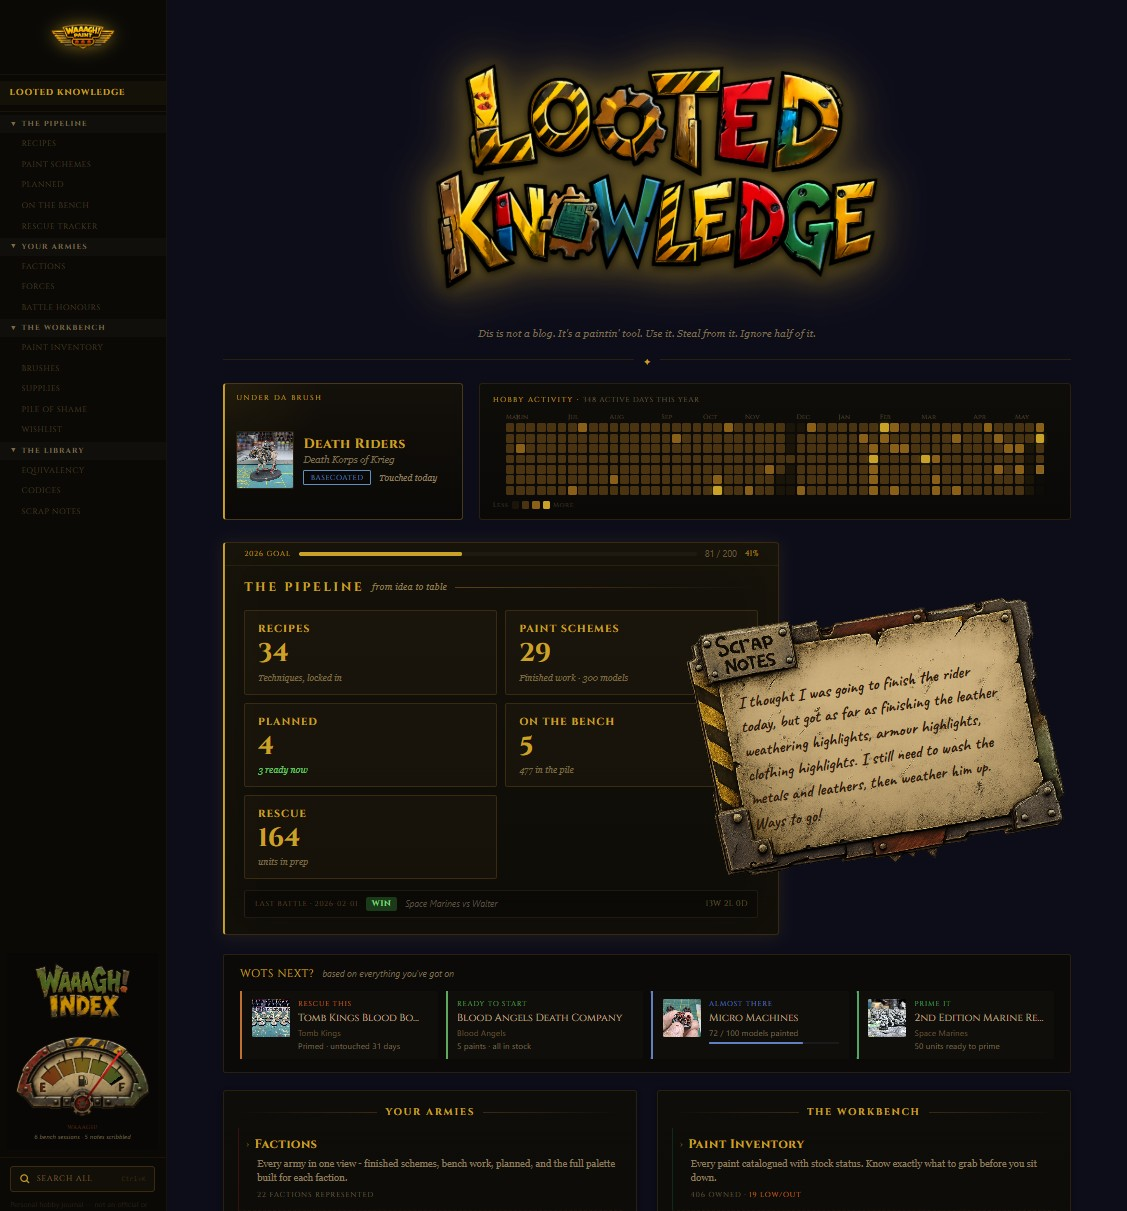
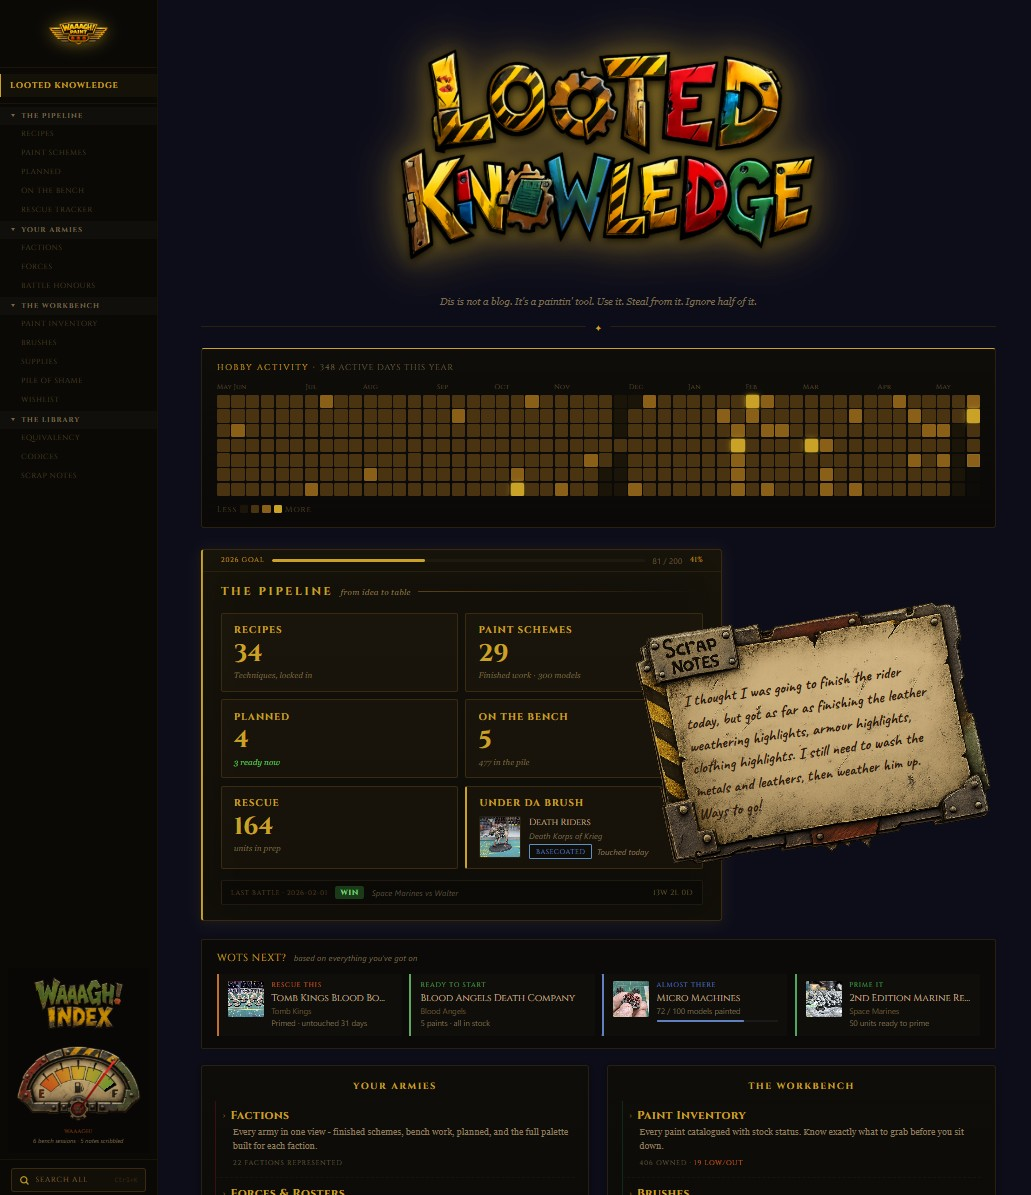
heatmap more in your face - better organised

diff --git a/styles.css b/styles.css
@@ -2903,106 +2903,6 @@
       margin: 0 0 28px;
     }
 
-    .hero-bench {
-      display: flex;
-      flex-direction: column;
-      width: 300px;
-      flex-shrink: 0;
-      background:
-        radial-gradient(ellipse 70% 100% at 0% 0%, rgba(201, 162, 39, .08) 0%, transparent 60%),
-        linear-gradient(180deg, #14100a 0%, #0a0907 100%);
-      border: 1px solid #4a3a18;
-      border-left: 3px solid var(--gold);
-      border-radius: 4px;
-      padding: 12px 14px;
-      cursor: pointer;
-      text-decoration: none;
-      transition: border-color .15s, box-shadow .15s, transform .15s;
-    }
-
-    .hero-bench:hover {
-      border-color: #8a6a18;
-      box-shadow: 0 2px 18px rgba(201, 162, 39, .18);
-      transform: translateY(-1px);
-    }
-
-    .hero-bench-label {
-      font-family: var(--font-heading);
-      font-size: 9px;
-      letter-spacing: .22em;
-      text-transform: uppercase;
-      color: var(--gold);
-      margin-bottom: 10px;
-    }
-
-    .hero-bench-main {
-      display: flex;
-      gap: 12px;
-      align-items: center;
-      flex: 1;
-    }
-
-    .hero-bench-img {
-      width: 72px;
-      height: 72px;
-      border-radius: 3px;
-      background-size: cover;
-      background-position: center;
-      background-color: #0a0806;
-      border: 1px solid var(--border);
-      flex-shrink: 0;
-    }
-
-    .hero-bench-img-empty {
-      display: flex;
-      align-items: center;
-      justify-content: center;
-      font-family: var(--font-heading);
-      font-size: 8px;
-      letter-spacing: .12em;
-      color: var(--bg-mid);
-      text-align: center;
-      line-height: 1.4;
-    }
-
-    .hero-bench-info {
-      flex: 1;
-      min-width: 0;
-    }
-
-    .hero-bench-name {
-      font-family: var(--font-heading);
-      font-weight: 700;
-      font-size: 1.05rem;
-      color: var(--gold);
-      letter-spacing: .04em;
-      margin-bottom: 2px;
-      white-space: nowrap;
-      overflow: hidden;
-      text-overflow: ellipsis;
-    }
-
-    .hero-bench-faction {
-      font-family: var(--font-body);
-      font-style: italic;
-      font-size: 12px;
-      color: #7a6a4a;
-      margin-bottom: 6px;
-    }
-
-    .hero-bench-meta {
-      display: flex;
-      gap: 10px;
-      align-items: center;
-      flex-wrap: wrap;
-    }
-
-    .hero-bench-touched {
-      font-family: var(--font-body);
-      font-size: 11px;
-      color: #8a7a5a;
-      font-style: italic;
-    }
 
     .hero-wrap {
       position: relative;
@@ -3014,17 +2914,18 @@
       min-width: 0;
       background: linear-gradient(180deg, var(--bg-base) 0%, #0a0907 100%);
       border: 1px solid var(--border);
+      border-top: 2px solid var(--gold);
       border-radius: 4px;
-      padding: 14px 16px 12px;
+      padding: 18px 20px 16px;
     }
 
     .hm-header {
       font-family: var(--font-heading);
-      font-size: 9px;
+      font-size: 11px;
       letter-spacing: .2em;
       text-transform: uppercase;
       color: var(--gold);
-      margin-bottom: 10px;
+      margin-bottom: 12px;
     }
 
     .hm-count {
@@ -3032,26 +2933,20 @@
       letter-spacing: .1em;
     }
 
-    .hm-scroll {
-      overflow-x: auto;
-    }
+    .hm-scroll { overflow-x: hidden; }
 
-    .hm-inner {
-      width: fit-content;
-      margin: 0 auto;
-    }
+    .hm-inner { width: 100%; }
 
     .hm-months {
-      display: flex;
+      display: grid;
+      grid-template-columns: repeat(52, 1fr);
       gap: 2px;
       margin-bottom: 3px;
     }
 
     .hm-months span {
-      width: 11px;
-      flex-shrink: 0;
       font-family: var(--font-heading);
-      font-size: 8px;
+      font-size: 9px;
       letter-spacing: .04em;
       color: #6a5a3a;
       white-space: nowrap;
@@ -3059,7 +2954,8 @@
     }
 
     .hm-grid {
-      display: flex;
+      display: grid;
+      grid-template-columns: repeat(52, 1fr);
       gap: 2px;
     }
 
@@ -3067,19 +2963,18 @@
       display: flex;
       flex-direction: column;
       gap: 2px;
-      flex-shrink: 0;
     }
 
     .hm-day {
-      width: 11px;
-      height: 11px;
+      aspect-ratio: 1;
+      width: 100%;
       border-radius: 2px;
     }
 
     .hm-lv0 { background: #1a1508; }
     .hm-lv1 { background: #4a3310; }
     .hm-lv2 { background: #8a6018; }
-    .hm-lv3 { background: var(--gold); box-shadow: 0 0 5px rgba(201,162,39,.35); }
+    .hm-lv3 { background: var(--gold); box-shadow: 0 0 8px rgba(201,162,39,.6), 0 0 3px rgba(201,162,39,.9); }
     .hm-future { background: #0e0c08; }
     .hm-today  { outline: 1px solid #8a6a28; outline-offset: -1px; }
 
@@ -3087,9 +2982,9 @@
       display: flex;
       align-items: center;
       gap: 4px;
-      margin-top: 8px;
+      margin-top: 10px;
       font-family: var(--font-heading);
-      font-size: 8px;
+      font-size: 11px;
       letter-spacing: .1em;
       color: #5a4a2a;
     }
@@ -3098,8 +2993,8 @@
     .hm-legend .hm-lv1,
     .hm-legend .hm-lv2,
     .hm-legend .hm-lv3 {
-      width: 9px;
-      height: 9px;
+      width: 11px;
+      height: 11px;
       border-radius: 2px;
       flex-shrink: 0;
       box-shadow: none;
@@ -3262,10 +3157,7 @@
       .hero-bar {
         flex-direction: column;
       }
-      .hero-bench {
-        width: auto;
-      }
-      .pipeline-notes-row {
+.pipeline-notes-row {
         flex-direction: column;
       }
       .hero-notes-panel {
@@ -3639,6 +3531,14 @@
       line-height: 1.4;
     }
 
+    .pipeline-bench-node { border-left: 3px solid var(--gold); min-width: 0; overflow: hidden; }
+    .pipeline-bench-main { display: flex; align-items: flex-start; gap: 10px; margin-top: 8px; }
+    .pipeline-bench-thumb { width: 56px; height: 56px; flex-shrink: 0; border-radius: 3px; background-size: cover; background-position: center; background-color: #0a0806; border: 1px solid var(--border); }
+    .pipeline-bench-info { flex: 1; min-width: 0; }
+    .pipeline-bench-pname { font-family: var(--font-heading); font-size: 12px; color: #c4b49a; margin-bottom: 3px; white-space: nowrap; overflow: hidden; text-overflow: ellipsis; }
+    .pipeline-bench-faction { font-size: 11px; color: var(--text-brown); margin-bottom: 4px; font-style: italic; white-space: nowrap; overflow: hidden; text-overflow: ellipsis; }
+    .pipeline-bench-meta { display: flex; align-items: center; gap: 6px; flex-wrap: wrap; }
+    .hero-bench-touched { font-size: 11px; color: #8a7a5a; font-style: italic; }
 
     /* ── Landing: Armies + Workbench row ── */
     .armies-workbench-row {
@@ -3727,6 +3627,8 @@
       .pipeline-nodes {
         grid-template-columns: 1fr 1fr;
       }
+
+      .pipeline-bench-thumb { display: none; }
 
       .armies-workbench-row {
         grid-template-columns: 1fr;

diff --git a/index.php b/index.php
@@ -371,7 +371,7 @@ if (($_POST['action'] ?? '') === 'track_tab') {
   <meta name="twitter:image" content="<?= htmlspecialchars(SITE_URL) ?>img/logo_sm.png">
   <link rel="preconnect" href="https://fonts.googleapis.com">
   <link href="https://fonts.googleapis.com/css2?family=Cinzel:wght@400;700;900&family=Caveat:wght@700&display=swap" rel="stylesheet">
-  <link rel="stylesheet" href="styles.css?v=66">
+  <link rel="stylesheet" href="styles.css?v=69">
   <script type="application/ld+json">
     {
       "@context": "https://schema.org",
@@ -610,6 +610,14 @@ if (($_POST['action'] ?? '') === 'track_tab') {
         }
       }
 
+      $bnImg   = '';
+      $bnStage = 'built';
+      if ($latestBench) {
+        $bnImgs  = $latestBench['wip_images'] ?? [];
+        $bnImg   = !empty($bnImgs) ? $bnImgs[count($bnImgs) - 1] : '';
+        $bnStage = $latestBench['stage'] ?? 'built';
+      }
+
       $benchStageLabels = [
         'built' => 'Built',
         'primed' => 'Primed',
@@ -633,33 +641,6 @@ if (($_POST['action'] ?? '') === 'track_tab') {
 
       <div class="hero-wrap">
         <div class="hero-bar">
-          <?php if ($latestBench): ?>
-            <a class="hero-bench" data-jump="bench" title="Jump to On the Bench">
-              <div class="hero-bench-label">Under da Brush</div>
-              <?php
-              $bnImgs = $latestBench['wip_images'] ?? [];
-              $bnImg = !empty($bnImgs) ? $bnImgs[count($bnImgs) - 1] : '';
-              $bnStage = $latestBench['stage'] ?? 'built';
-              ?>
-              <div class="hero-bench-main">
-                <?php if ($bnImg): ?>
-                  <div class="hero-bench-img" style="background-image:url('<?= htmlspecialchars($bnImg, ENT_QUOTES) ?>')"></div>
-                <?php else: ?>
-                  <div class="hero-bench-img hero-bench-img-empty">NO<br>PHOTO</div>
-                <?php endif; ?>
-                <div class="hero-bench-info">
-                  <div class="hero-bench-name"><?= htmlspecialchars($latestBench['name'], ENT_QUOTES) ?></div>
-                  <?php if (!empty($latestBench['faction'])): ?>
-                    <div class="hero-bench-faction"><?= htmlspecialchars($latestBench['faction'], ENT_QUOTES) ?></div>
-                  <?php endif; ?>
-                  <div class="hero-bench-meta">
-                    <span class="bench-stage-label stage-<?= htmlspecialchars($bnStage, ENT_QUOTES) ?>"><?= htmlspecialchars($benchStageLabels[$bnStage] ?? $bnStage, ENT_QUOTES) ?></span>
-                    <?php if ($touchedAgo): ?><span class="hero-bench-touched"><?= htmlspecialchars($touchedAgo, ENT_QUOTES) ?></span><?php endif; ?>
-                  </div>
-                </div>
-              </div>
-            </a>
-          <?php endif; ?>
           <div id="hero-heatmap" class="hero-heatmap"></div>
         </div>
       </div>
@@ -713,6 +694,19 @@ if (($_POST['action'] ?? '') === 'track_tab') {
                 <div class="pipeline-node-name">Rescue</div>
                 <div class="pipeline-node-num"><?= $cnt_rescue_units ?></div>
                 <div class="pipeline-node-blurb">unit<?= $cnt_rescue_units !== 1 ? 's' : '' ?> in prep</div>
+              </a>
+            <?php endif; ?>
+            <?php if ($latestBench): ?>
+              <a class="pipeline-node pipeline-bench-node" data-jump="bench" title="Jump to On the Bench">
+                <div class="pipeline-node-name">Under da Brush</div>
+                <div class="pipeline-bench-main">
+                  <?php if ($bnImg): ?><div class="pipeline-bench-thumb" style="background-image:url('<?= htmlspecialchars($bnImg, ENT_QUOTES) ?>')"></div><?php endif; ?>
+                  <div class="pipeline-bench-info">
+                    <div class="pipeline-bench-pname"><?= htmlspecialchars($latestBench['name'], ENT_QUOTES) ?></div>
+                    <?php if (!empty($latestBench['faction'])): ?><div class="pipeline-bench-faction"><?= htmlspecialchars($latestBench['faction'], ENT_QUOTES) ?></div><?php endif; ?>
+                    <div class="pipeline-bench-meta"><span class="bench-stage-label stage-<?= htmlspecialchars($bnStage, ENT_QUOTES) ?>"><?= htmlspecialchars($benchStageLabels[$bnStage] ?? $bnStage, ENT_QUOTES) ?></span><?php if ($touchedAgo): ?><span class="hero-bench-touched"><?= htmlspecialchars($touchedAgo, ENT_QUOTES) ?></span><?php endif; ?></div>
+                  </div>
+                </div>
               </a>
             <?php endif; ?>
           </div>